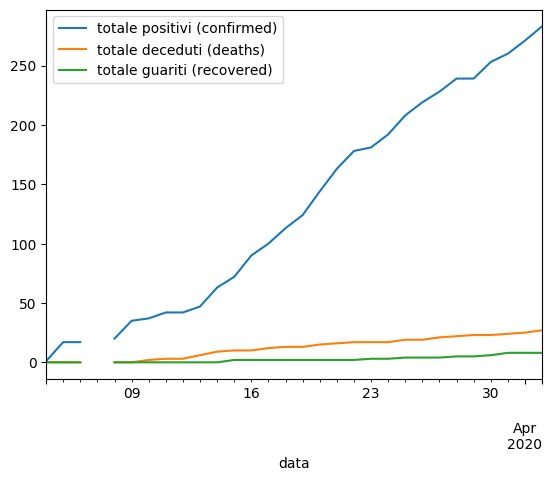
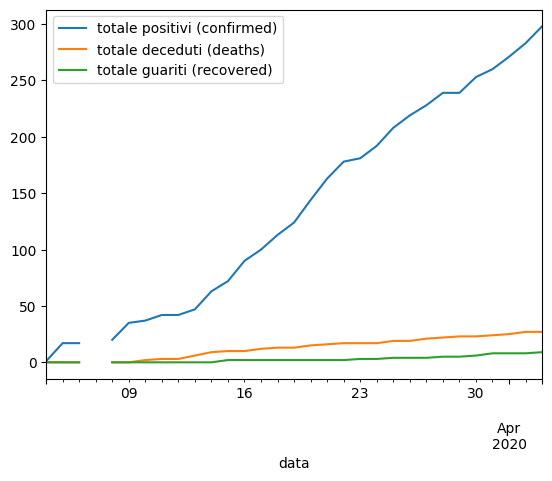
Update data for 2020-04-03

diff --git a/COVID-19/analysis.py b/COVID-19/analysis.py
@@ -14,8 +14,10 @@ df2 = df[['positive','dead','total_recovered']]
 df2.index = df.index
 ax2 = df2.plot()
 ax2.set_xlabel('data')
-# trasnlation according to https://github.com/pomber/covid19
+# trasnslation according to https://github.com/pomber/covid19
 ax2.legend(['totale positivi (confirmed)','totale deceduti (deaths)','totale guariti (recovered)'])
 ax2.figure.savefig('COVID-19.png',bbox_inches='tight')
+
+print(df2)
 
 plt.show()
